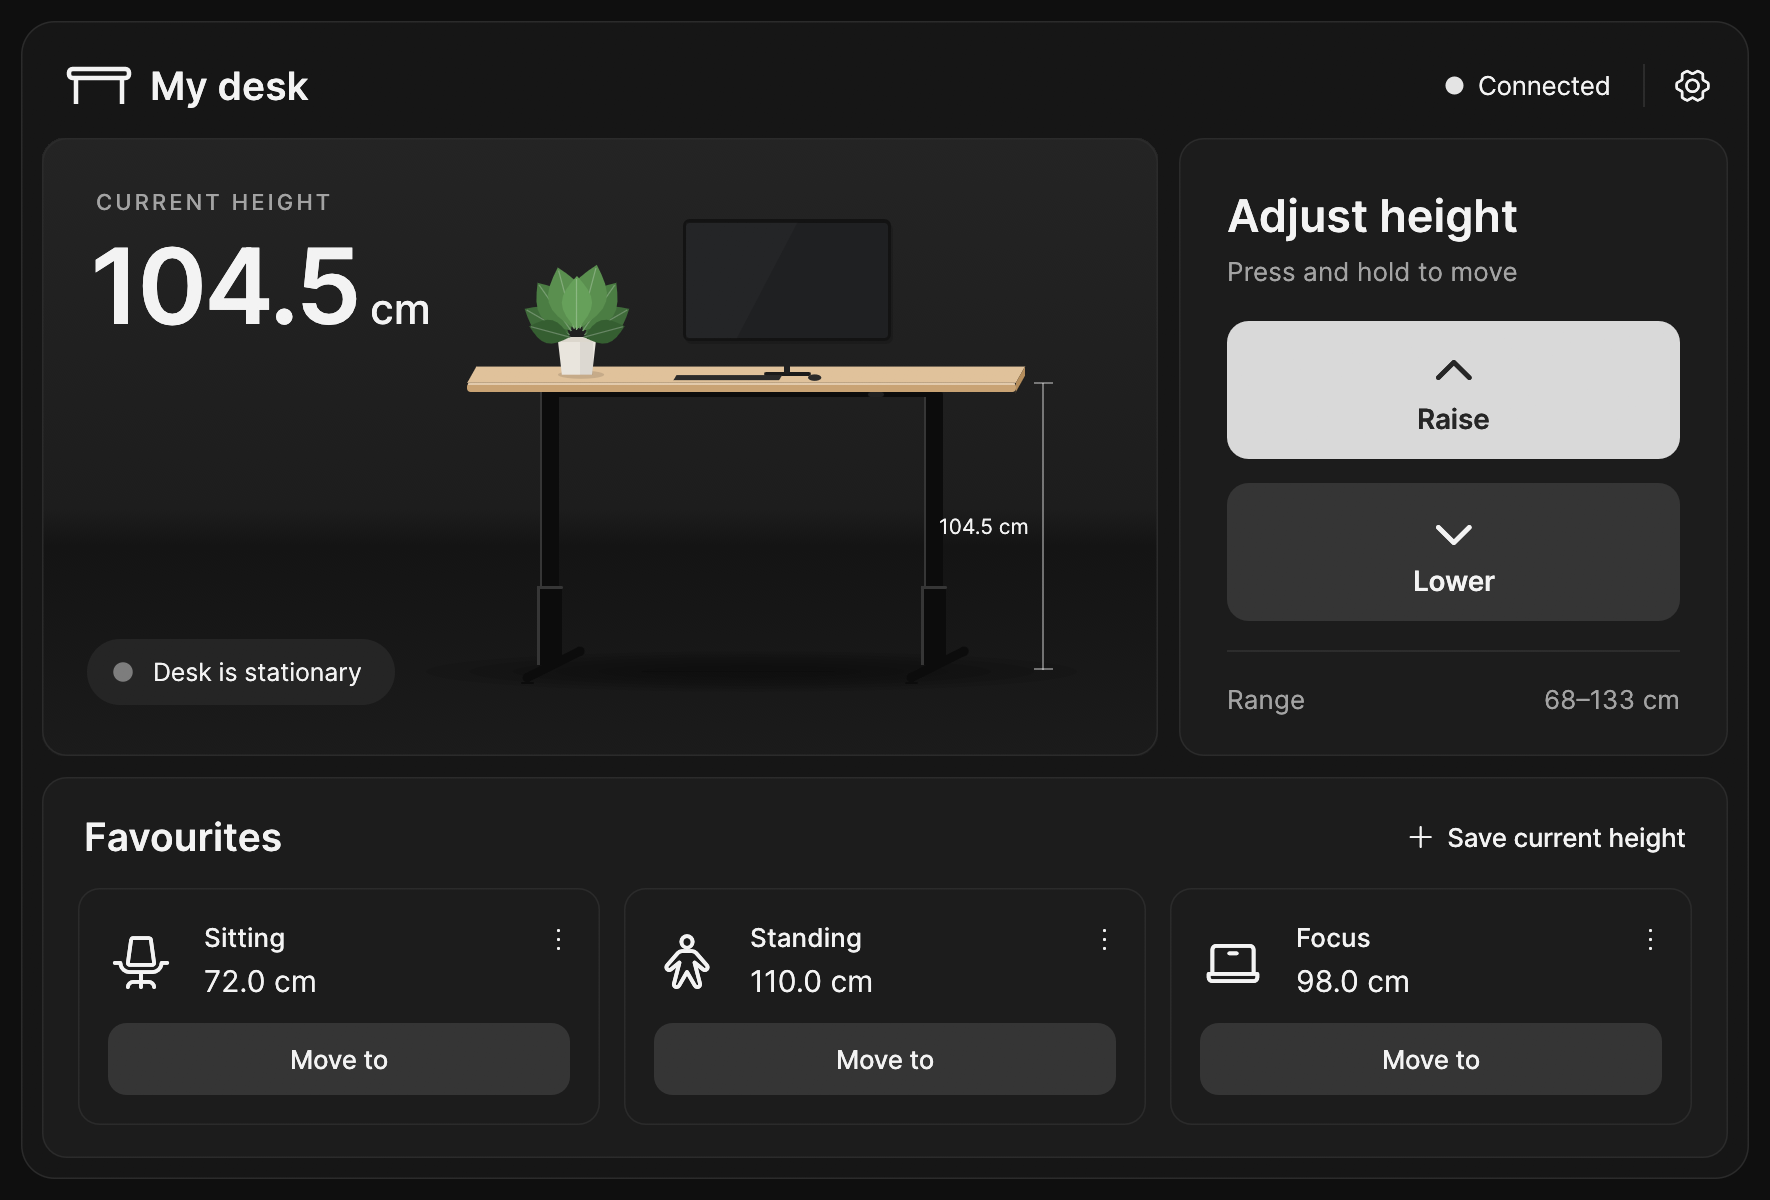
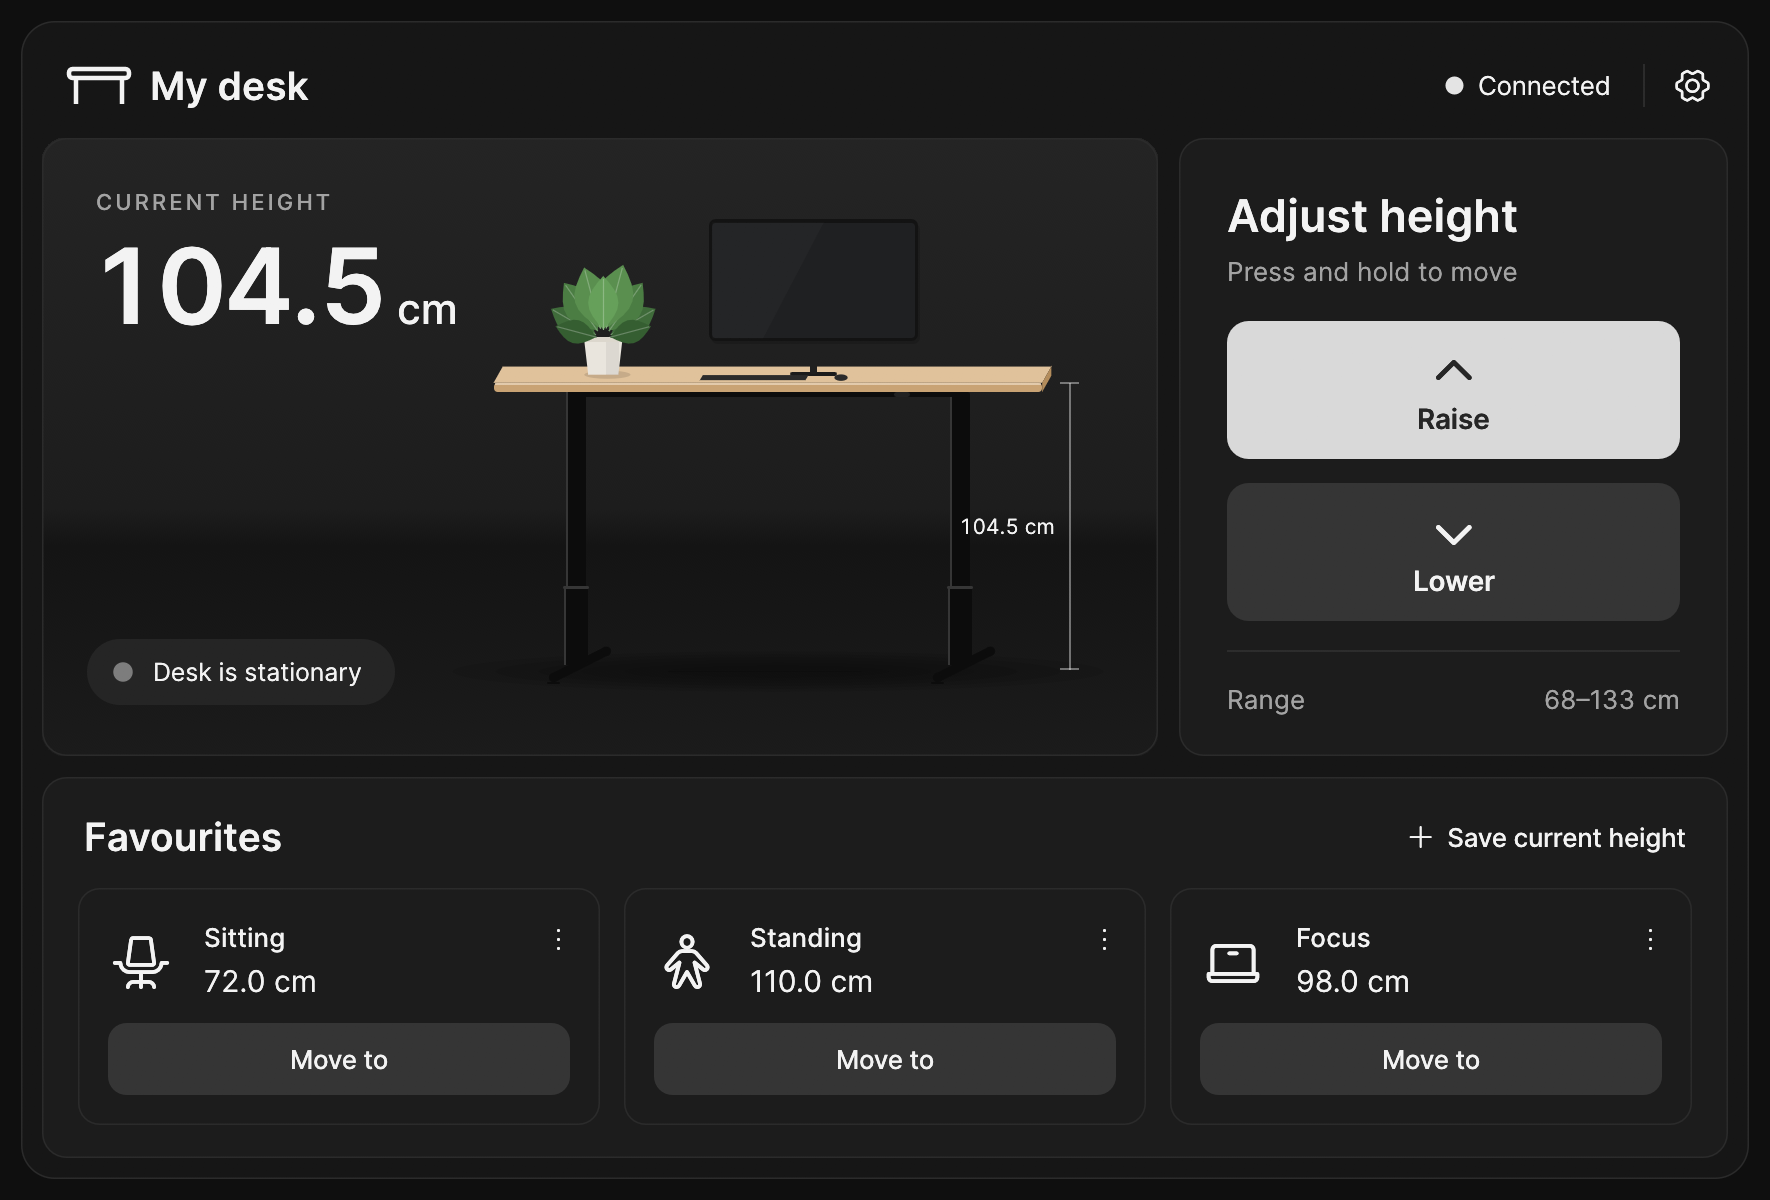
Stop the desk preview from jiggling while the height animates
The illustration shifted sideways to clear the height readout, but the
readout's width changed with every digit (proportional figures) and the
shift toggled as the animated tabletop crossed the text. Digits are now
laid out in fixed-width cells (one section per character, so kerning
can't change widths), the clearance is reserved for the widest possible
reading, and placement is decided from the maximum height. The
dimension label gets the same treatment.

Also adds a DESK_CTRL_MOVE_TO dev hook and a regression test.

diff --git a/app/src/widgets.rs b/app/src/widgets.rs
@@ -436,3 +436,92 @@ pub fn table_icon(painter: &egui::Painter, center: Pos2, w: f32, color: Color32)
         painter.line_segment([pos2(x, top + w * 0.16), pos2(x, center.y + w * 0.3)], s);
     }
 }
+
+/// Lays out `text` with every digit centered in a cell as wide as the widest
+/// digit (like tabular figures), so changing numbers don't shift surrounding
+/// content. Returns the job and the padding after the last character, which
+/// belongs to its cell but is not part of the galley width.
+pub fn tabular_job(
+    painter: &egui::Painter,
+    text: &str,
+    format: &egui::TextFormat,
+) -> (egui::text::LayoutJob, f32) {
+    let width = |s: String| {
+        painter
+            .layout_no_wrap(s, format.font_id.clone(), format.color)
+            .size()
+            .x
+    };
+    let cell = ('0'..='9')
+        .map(|d| width(d.to_string()))
+        .fold(0.0, f32::max);
+    let mut job = egui::text::LayoutJob::default();
+    let mut pad = 0.0;
+    for ch in text.chars() {
+        let s = ch.to_string();
+        let half = if ch.is_ascii_digit() {
+            (cell - width(s.clone())) / 2.0
+        } else {
+            0.0
+        };
+        // One section per character: `LayoutJob::append` would merge equal
+        // sections, and characters shaped together get kerned (e.g. "0.0" is
+        // tighter than "1.1"), which makes the width vary again.
+        let start = job.text.len();
+        job.text.push_str(&s);
+        job.sections.push(egui::text::LayoutSection {
+            leading_space: pad + half,
+            byte_range: egui::text::ByteIndex(start)..egui::text::ByteIndex(job.text.len()),
+            format: format.clone(),
+        });
+        pad = half;
+    }
+    (job, pad)
+}
+
+/// Width `text` would occupy when laid out with [`tabular_job`].
+pub fn tabular_width(painter: &egui::Painter, text: &str, format: &egui::TextFormat) -> f32 {
+    let (job, pad) = tabular_job(painter, text, format);
+    painter.layout_job(job).size().x + pad
+}
+
+#[cfg(test)]
+mod tests {
+    use super::*;
+
+    /// Readings with the same number of digits must occupy the same width.
+    #[test]
+    fn tabular_numbers_have_stable_width() {
+        let ctx = egui::Context::default();
+        crate::theme::install_fonts(&ctx);
+        let mut output = ctx.run_ui(Default::default(), |ui| {
+            let painter = ui.painter();
+            let format = egui::TextFormat {
+                font_id: font(88.0, Weight::Bold),
+                extra_letter_spacing: -88.0 * 0.03,
+                ..Default::default()
+            };
+            let widths: Vec<(String, f32)> = (600..1340)
+                .map(|tenths| {
+                    let text = format!("{:.1}", tenths as f32 / 10.0);
+                    let w = tabular_width(painter, &text, &format);
+                    (text, w)
+                })
+                .collect();
+            for len in [4, 5] {
+                let same: Vec<_> = widths.iter().filter(|(t, _)| t.len() == len).collect();
+                let (min, max) = same.iter().fold((f32::MAX, f32::MIN), |(a, b), (_, w)| {
+                    (a.min(*w), b.max(*w))
+                });
+                // Allow sub-pixel rounding of glyph positions.
+                assert!(
+                    max - min < 0.1,
+                    "{len}-char readings vary in width by {}",
+                    max - min
+                );
+            }
+        });
+        // Nothing renders in this test; drop the font atlas upload explicitly.
+        output.textures_delta.clear();
+    }
+}

diff --git a/app/src/app.rs b/app/src/app.rs
@@ -367,17 +367,13 @@ impl DeskApp {
             .map(|h| format!("{:.1}", h / 10.0))
             .unwrap_or_else(|| "—".into());
         let big = (rect.height() * 0.17).clamp(56.0, 88.0);
-        let mut job = LayoutJob::default();
-        job.append(
-            &number,
-            0.0,
-            TextFormat {
-                font_id: font(big, Weight::Bold),
-                color: p.text,
-                extra_letter_spacing: -big * 0.03,
-                ..Default::default()
-            },
-        );
+        let num_fmt = TextFormat {
+            font_id: font(big, Weight::Bold),
+            color: p.text,
+            extra_letter_spacing: -big * 0.03,
+            ..Default::default()
+        };
+        let (job, trailing) = widgets::tabular_job(ui.painter(), &number, &num_fmt);
         let num = ui.painter().layout_job(job);
         let unit =
             ui.painter()
@@ -385,12 +381,20 @@ impl DeskApp {
         // Align the unit on the number's baseline.
         let num_pos = pos2(left - 4.0, rect.top() + 56.0);
         let unit_pos = pos2(
-            num_pos.x + num.size().x + big * 0.08,
+            num_pos.x + num.size().x + trailing + big * 0.08,
             num_pos.y + baseline(&num) - baseline(&unit),
         );
+        // Keep the desk clear of the widest reading this desk can show, so the
+        // illustration doesn't shift as the digits change.
+        let widest = format!("{:.1}", self.max_mm().max(1000.0) / 10.0)
+            .replace(|c: char| c.is_ascii_digit(), "0");
+        let reserved = widgets::tabular_width(ui.painter(), &widest, &num_fmt);
         let text_block = Rect::from_min_max(
             pos2(left, rect.top() + 34.0),
-            pos2(unit_pos.x + unit.size().x, num_pos.y + num.size().y),
+            pos2(
+                num_pos.x + reserved + big * 0.08 + unit.size().x,
+                num_pos.y + num.size().y,
+            ),
         );
         let label = self.height_mm().map(|h| format!("{:.1} cm", h / 10.0));
         illustration::paint(
@@ -960,6 +964,12 @@ impl eframe::App for DeskApp {
         self.paint_toast(ui, &p);
         if self.screen == Screen::Onboarding {
             self.autopilot();
+        }
+        if self.sample.is_some()
+            && self.connected()
+            && let Some(mm) = self.dev.move_to.take()
+        {
+            self.move_to_mm(mm, format!("{:.1} cm", mm / 10.0));
         }
         self.dev.tick(&ctx);
     }

diff --git a/app/src/illustration.rs b/app/src/illustration.rs
@@ -32,10 +32,13 @@ pub fn paint(ui: &Ui, rect: Rect, scene: &DeskScene, p: &Palette) {
     let u = dw / 540.0; // design unit; the desk is 540 units wide
     let top_y = floor_y - scene.height_mm * px_per_mm;
     if let Some(avoid) = scene.avoid {
-        // The plant reaches ~75 units above the tabletop at the left end.
+        // Decide from the highest position, not the current one, so the desk
+        // never jumps sideways while the height animates. The plant reaches
+        // ~75 units above the tabletop at the left end.
         let gap = 24.0;
         let left_edge = cx - dw / 2.0;
-        if top_y - 75.0 * u < avoid.bottom() && left_edge < avoid.right() + gap {
+        let highest_top = floor_y - scene.max_mm * px_per_mm;
+        if highest_top - 75.0 * u < avoid.bottom() && left_edge < avoid.right() + gap {
             // Leave room for the dimension label on the right.
             let max_cx = rect.right() - dw / 2.0 - 110.0 * u;
             cx = (cx + avoid.right() + gap - left_edge).min(max_cx.max(cx));
@@ -225,11 +228,19 @@ pub fn paint(ui: &Ui, rect: Rect, scene: &DeskScene, p: &Palette) {
             painter.line_segment([pos2(x - 6.0, y), pos2(x + 6.0, y)], s);
         }
         let text_pos = pos2(x + 10.0, (top_y + floor_y) / 2.0);
-        let galley = painter.layout_no_wrap(label.clone(), font(14.0, Weight::Regular), p.text);
-        // Put the label inside if it would be clipped on the right.
-        let pos = if text_pos.x + galley.size().x > rect.right() - 8.0 {
+        let format = egui::TextFormat {
+            font_id: font(14.0, Weight::Regular),
+            color: p.text,
+            ..Default::default()
+        };
+        let (job, trailing) = crate::widgets::tabular_job(&painter, label, &format);
+        let galley = painter.layout_job(job);
+        // Put the label inside if a label for the highest position would be
+        // clipped on the right (a fixed decision, so it never flips sides).
+        let widest = crate::widgets::tabular_width(&painter, "000.0 cm", &format);
+        let pos = if text_pos.x + widest > rect.right() - 8.0 {
             pos2(
-                x - 10.0 - galley.size().x,
+                x - 10.0 - galley.size().x - trailing,
                 text_pos.y - galley.size().y / 2.0,
             )
         } else {

diff --git a/app/src/devtools.rs b/app/src/devtools.rs
@@ -6,6 +6,7 @@
 //!   onboarding flow to that step as soon as each step allows it.
 //! - `DESK_CTRL_SELECT=<device id or name>` picks that device on the Find step.
 //! - `DESK_CTRL_SETTINGS=1` opens the settings dialog on start.
+//! - `DESK_CTRL_MOVE_TO=<mm>` moves the desk there once connected.
 
 use std::path::PathBuf;
 
@@ -18,6 +19,7 @@ pub struct DevTools {
     pub target_step: Option<Step>,
     pub select: Option<String>,
     pub open_settings: bool,
+    pub move_to: Option<f32>,
 }
 
 impl DevTools {
@@ -39,6 +41,7 @@ impl DevTools {
             }),
             select: var("DESK_CTRL_SELECT"),
             open_settings: var("DESK_CTRL_SETTINGS").is_some(),
+            move_to: var("DESK_CTRL_MOVE_TO").and_then(|v| v.parse().ok()),
         }
     }
 

diff --git a/README.md b/README.md
@@ -133,6 +133,7 @@ The app has a few environment variables for development and automation:
 | `DESK_CTRL_STEP=find\|connect\|calibrate\|personalise\|done` | Advance onboarding to that step automatically. |
 | `DESK_CTRL_SELECT=<id or name>` | The device to pick on the Find step. |
 | `DESK_CTRL_SETTINGS=1` | Open Settings on start. |
+| `DESK_CTRL_MOVE_TO=<mm>` | Move the desk to this height once connected (handy for capturing motion). |
 
 ## Releases
 
